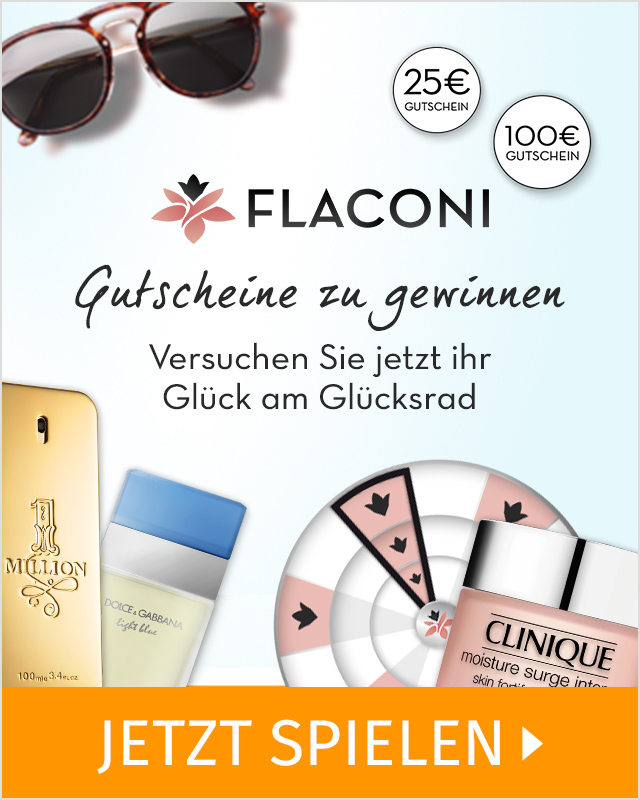
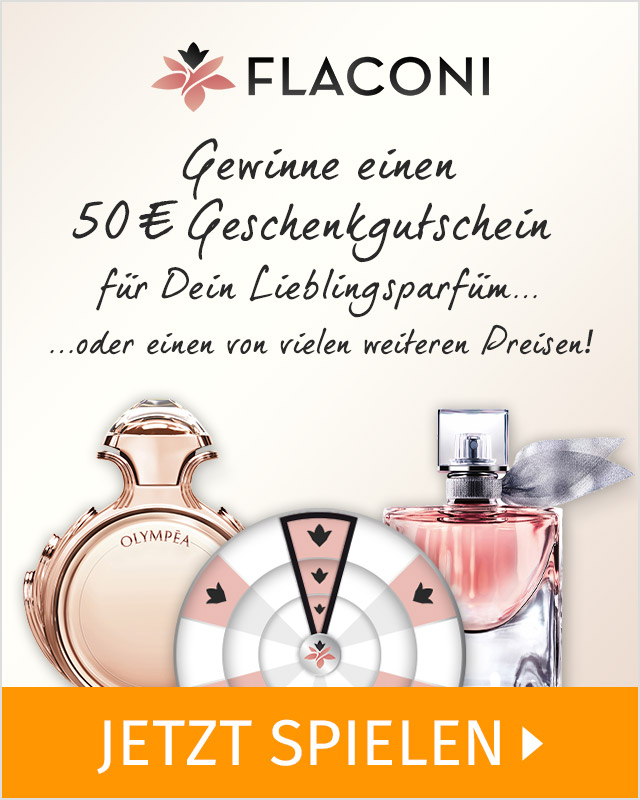
Added html for flaconi and removed assets for valmano

diff --git a/flaconi/index.html b/flaconi/index.html
@@ -52,7 +52,7 @@
         </div>
         <div class=' row'>
           <div class="col-md-offset-5 col-md-2 col-xs-6 col-xs-offset-3">
-            <img src="valmano-logo.svg"  class="img-responsive" >
+            <img src="flaconi-logo.png"  class="img-responsive" >
             <br>
           </div>
         </div>
@@ -68,7 +68,7 @@
                   <div class="portfolio_photos row no_row">
                     <div class="row small-pading">
                       <div class="col-md-6" >
-                          <img class="img-responsive"  style='width:100%' src="kw20_yiippii_left_de.jpg" alt="Amorelie Instructions" data-author="">
+                          <img class="img-responsive"  style='width:100%' src="Flaconi-LP-Teaser.jpg" alt="Amorelie Instructions" data-author="">
                       </div>
                       <div class="col-md-6">
                           <iframe width="100%" style='min-height:600px' frameborder="0" scrolling="no" horizontalscrolling="no" verticalscrolling="no" id='iframe_yipiii' allowtransparency="true">
@@ -80,7 +80,7 @@
                     </div>
                     <div class="row" id="rules" >
                       <div class="col-md-3 col-xs-8 col-xs-offset-2 col-md-offset-0" >
-                        <img src="Valmano_wheel.png"   class="img-responsive" style="margin:auto;padding-left:15px;padding-top:10px;">
+                        <img src="wheel.jpg"   class="img-responsive" style="margin:auto;padding-left:15px;padding-top:10px;">
                       </div>
                       <div class="col-md-9 col-xs-12" id="right-rules">
                           <div class="col-md-12 col-xs-12"><h4>GEWINN-KOMBINATIONEN</h4></div>
@@ -93,7 +93,7 @@
                               </p>
                             </div>
                             <div class="col-md-6 col-xs-3">
-                              <img class="img-responsive" src="Valmano_3win.png" />
+                              <img class="img-responsive" src="win3.jpg" />
                             </div>
                           </div>
                           <div class="col-md-4 col-xs-12">
@@ -105,7 +105,7 @@
                               </p>
                             </div>
                             <div class="col-md-6 col-xs-3">
-                              <img class="img-responsive" src="Valmano_2win.png" />
+                              <img class="img-responsive" src="win2.jpg" />
                             </div>
                           </div>
                           <div class="col-md-4">
@@ -117,7 +117,7 @@
                               </p>
                             </div>
                             <div class="col-md-6 col-xs-3">
-                              <img class="img-responsive" class="pull-right" src="Valmano_1win.png" />
+                              <img class="img-responsive" class="pull-right" src="win1.jpg" />
                             </div>
                           </div>
                       <div class="clearfix"></div>
@@ -149,7 +149,6 @@
       <div class='closing'>
         <div class="container">
           <div class="row">
-           
             <div class="col-md-1 ">
               <a href="mailto:info@winmarket.de">
                 Kontakt
@@ -172,7 +171,6 @@
               <div id="gambling-commission-logo" class="col-md-3 col-xs-3 img-full-responsive" > </div>
               <div id="mga-logo" class="col-md-2 col-xs-2 img-full-responsive" > </div>
             </div>
-            
           </div>
         </div>
       </div>

diff --git a/index.html b/index.html
@@ -70,8 +70,8 @@
                   <div class="portfolio_photos row no_row">
                     <div class="row small-pading">
                       <div class="col-md-4">
-                        <a href="./valmano?token_register=mvQyZMCaae1oRQ" class="">
-                          <img class="img-responsive" src="img/Valmano_640px.jpg" alt="Device Design" data-author="">
+                        <a href="./flaconi?token_register=hyn2csXSqtJDMw" class="">
+                          <img class="img-responsive" src="img/Flaconi_640px.jpg" alt="Device Design" data-author="">
                         </a>
                       </div>
                       <div class="col-md-4">
